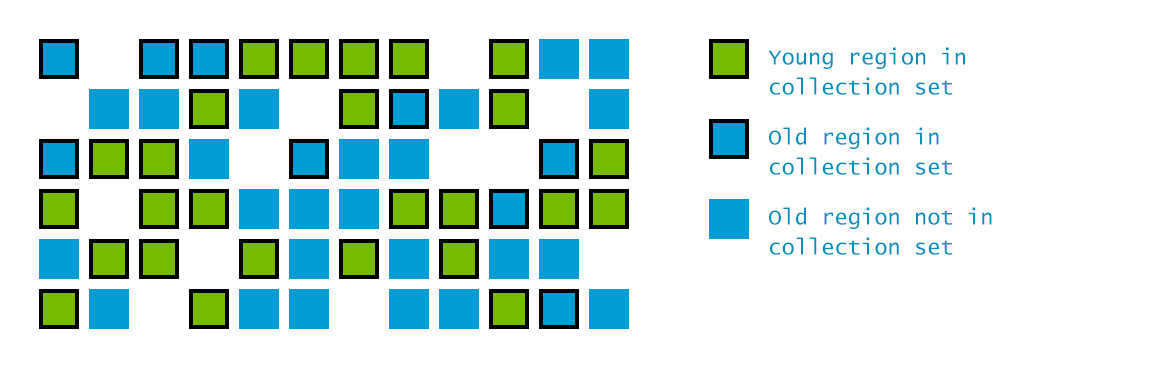
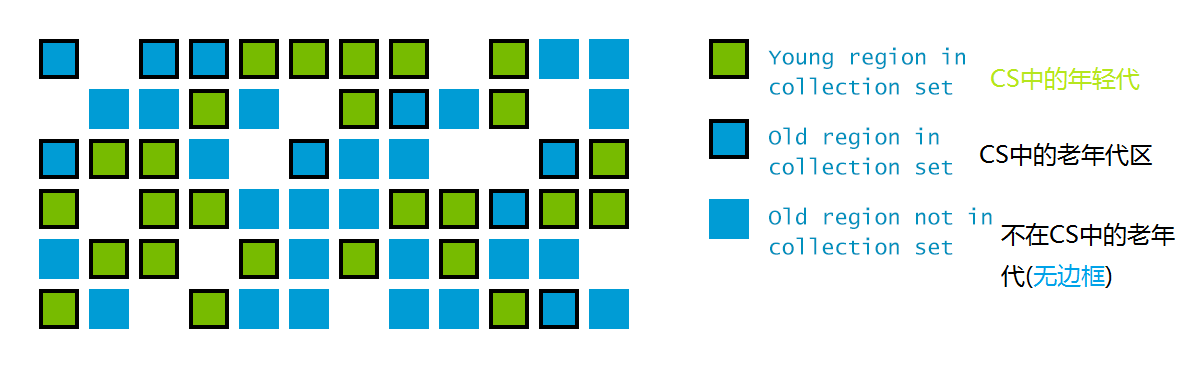
G1简介

diff --git a/04_GC_Algorithms_Implementations.md b/04_GC_Algorithms_Implementations.md
@@ -820,19 +820,19 @@ All in all, the CMS garbage collector does a great job at reducing the pause dur
 
 
 
-<br/><p style="height:1400px;">ccc</p><br/><p style="height:1900px;">ccc</p><br/><p style="height:1800px;">ccc</p><br/><p style="height:1900px;">ccc</p>
+<br/><p style="height:400px;">ccc</p><br/><p style="height:900px;">ccc</p><br/><p style="height:800px;">ccc</p><br/><p style="height:900px;">ccc</p>
 
 
 
 
 One of the key design goals of G1 was to make the duration and distribution of stop-the-world pauses due to garbage collection predictable and configurable. In fact, Garbage-First is a soft real-time garbage collector, meaning that you can set specific performance goals to it. You can request the stop-the-world pauses to be no longer than x milliseconds within any given y-millisecond long time range, e.g. no more than 5 milliseconds in any given second. Garbage-First GC will do its best to meet this goal with high probability (but not with certainty, that would be hard real-time).
 
-G1的主要设计目标之一就是使停止一切停顿的时间和分配由于垃圾收集可预测和可配置的。事实上,garbage first是软实时垃圾收集器,这意味着您可以设置特定的性能目标.你可以要求停止一切停顿不超过x毫秒任何y-millisecond长时间范围内,如不超过5毫秒在任何给定的第二.garbage first GC将尽力满足这个目标有高概率(但不确定,这将是硬实时)。
+G1的主要设计目标就是使的STW停顿的时间和分布变成可预测和可配置的。事实上, G1是一款软实时的垃圾收集器, 这意味着您可以设置特定的性能目标.你可以要求，在给定的任意y 毫秒时间范围内, STW停顿不得超过x毫秒。 例如: 每一秒中不得超过5毫秒. Garbage-First GC将以很大的概率尽力满足这个目标(但也不是完全确定,具体是多少将是真实时[hard real-time])。
 
 
 To achieve this, G1 builds upon a number of insights. First, the heap does not have to be split into contiguous Young and Old generation. Instead, the heap is split into a number (typically about 2048) smaller heap regions that can house objects. Each region may be an Eden region, a Survivor region or an Old region. The logical union of all Eden and Survivor regions is the Young Generation, and all the Old regions put together is the Old Generation:
 
-为了达到这个目标,G1构建在一些见解。首先,堆不需要分成连续的年轻和年老年代。而不是,堆被分成许多小(通常约2048)堆区域可以房子对象。每个地区可能是一个伊甸园地区,幸存者地区或一个旧地区.逻辑联盟的伊甸园和幸存者地区是年轻代,和所有的旧区域放在一起是老年代:
+为了达成这个目标,G1的有一些独特的实现。首先, 堆不需要分成连续的年轻代和老年代空间。而是分成许多个(通常是2048个)可以存放对象的小型堆区域(heap regions)。每个区域都可以是一个Eden区, Survivor区或者Old区. 逻辑上, 所有的Eden区和Survivor区就是年轻代, 所有的Old区放在一起那就是老年代:
 
 
 ![](04_11_g1-011.png)
@@ -842,7 +842,7 @@ To achieve this, G1 builds upon a number of insights. First, the heap does not h
 
 This allows the GC to avoid collecting the entire heap at once, and instead approach the problem incrementally: only a subset of the regions, called the collection set will be considered at a time. All the Young regions are collected during each pause, but some Old regions may be included as well:
 
-这允许GC避免收集整个堆,而以增量的方式进行问题:只有一个子集的区域,称为集将被视为一次集合.收集所有年轻的地区在每个停顿,但一些旧地区可能包括:
+这样划分使得每次GC不必去收集整个堆,而是以增量的方式解决问题: 每次只处理一部分区域,称为回收集(collection set). 每次暂停会收集所有的年轻区域, 但可能只包含一部分老年代区域:
 
 
 ![](04_12_g1-02.png)
@@ -852,12 +852,12 @@ This allows the GC to avoid collecting the entire heap at once, and instead appr
 
 Another novelty of G1 is that during the concurrent phase it estimates the amount of live data that each region contains. This is used in building the collection set: the regions that contain the most garbage are collected first. Hence the name: garbage-first collection.
 
-G1的另一个新奇的是,在并发阶段估计每个区域包含的实时数据。这是用于构建集合集合:区域包含最垃圾的收集。因此,名称:garbage first集合。
+G1的另一个创新, 是在并发阶段估算每个区域存活对象的数量。这用于构建回收集合(collection set): 垃圾最多的区域会被优先收集。这也是G1名称的由来: garbage-first。
 
 
 To run the JVM with the G1 collector enabled, run your application as
 
-启用了G1收集器的JVM运行,运行您的应用程序
+为JVM启用G1收集器, 使用的命令行参数为:
 
 
 	java -XX:+UseG1GC com.mypackages.MyExecutableClass
